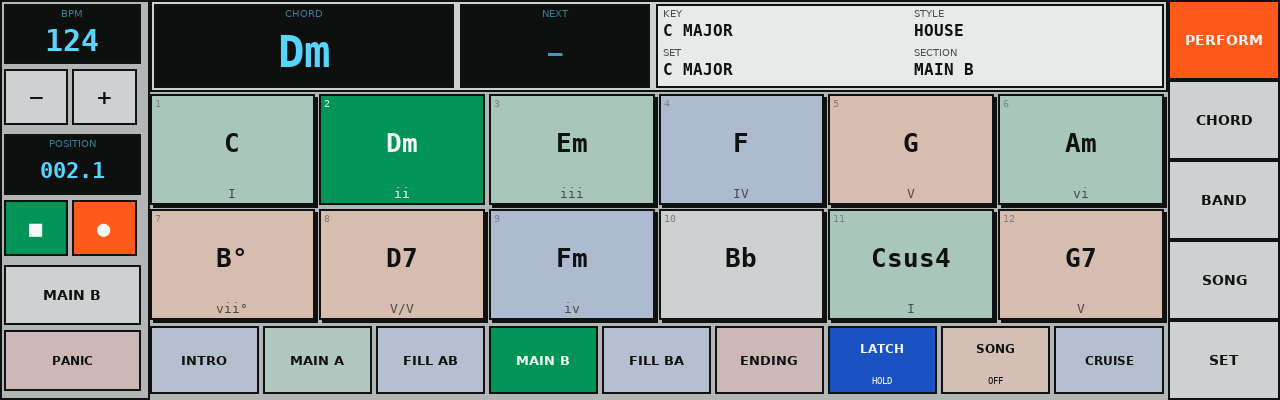
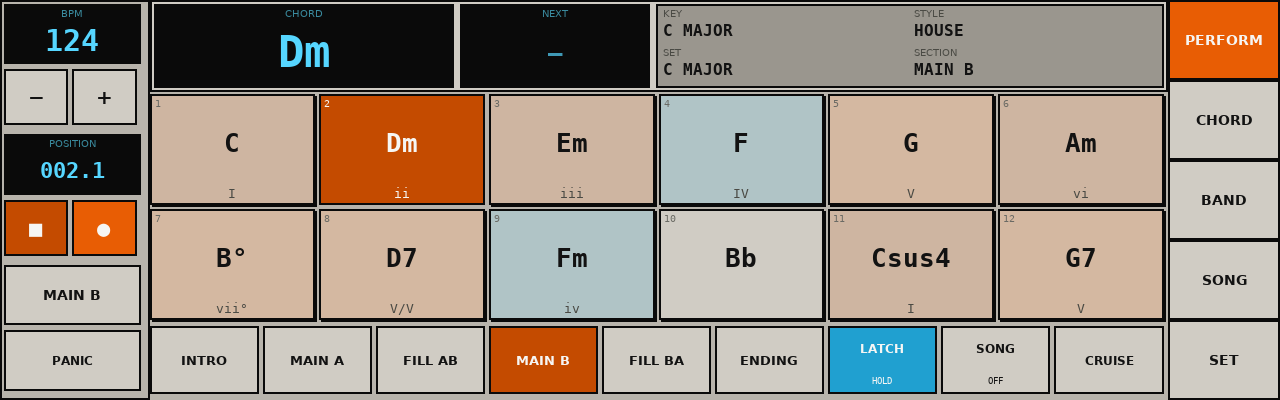
docs: document the Ranger Suite and the micro-rangers design system
The README still described a two-app world (RK-00pi plus "second app:
ChordRanger") and had no pictures, while the repo had grown seven apps, a
launcher, a shared kit and a whole new visual language.

README:
 * new top-level "The Ranger Suite" section — RangerDeck and the handover
   (closing the picture never stops the music), the seven apps with stage
   numbers and toggles, rangerkit as the vendored shared library, one
   PERFORM screenshot per app, `patchbox-app` replacing the old
   `patchbox-chordranger` instructions, and `config.rangers`.
 * "Design system: the micro-rangers industrial language" — why the scheme
   is light-industrial rather than dark, the token rules (RADIUS 0, 2 px
   black rules, LCD wells, HOT focus, no colour-alone press, ink_for,
   whole-colourway swaps), the sideways chrome on the bar, and the touch
   translator that a dead panel usually turns out to need.
 * build-toggle table gains RANGER_BOOT_APP and the per-app toggles.

Screenshots: regenerated every app's docs/img from the current theme (the
checked-in ChordRanger shots were still the old green/blue palette) and
added a hero shot to each app README.

RangerDeck bench fix: both deck PNGs were byte-identical because every
shot was drawn after the fleet had been fully mutated. Shoot as we go, so
the idle frame is actually idle.

Claude-Session: https://claude.ai/code/session_01QM5TE8oSpC9Sny1hPUUFBk

diff --git a/apps/rangerdeck/bench/render_panel.py b/apps/rangerdeck/bench/render_panel.py
@@ -68,20 +68,27 @@ def main(argv: list[str]) -> int:
                       connect=lambda name, timeout: _Idle())
     app = App(fleet, size=size)
 
-    shots = [("idle", ())]
+    # Shoot as we go: the fleet is mutated between states, so a shot taken
+    # after the fact would photograph the *last* state twice.
+    shot = 0
+
+    def shoot(label: str) -> None:
+        nonlocal shot
+        app._draw()
+        path = out / f"deck-{size[0]}x{size[1]}-{shot}-{label}.png"
+        pygame.image.save(app.surface, str(path))
+        print(f"wrote {path}")
+        shot += 1
+
+    shoot("idle")
     fleet.launch("midiranger")
     fleet.try_attach("midiranger")
     fleet.launch("grooveranger")
     fleet.try_attach("grooveranger")
     assert fleet.state("midiranger") == BACKGROUND
     app.message("MIDIRANGER RUNNING")
-    shots.append(("running", ("midiranger", "grooveranger")))
+    shoot("running")
 
-    for index, (label, _running) in enumerate(shots):
-        app._draw()
-        path = out / f"deck-{size[0]}x{size[1]}-{index}-{label}.png"
-        pygame.image.save(app.surface, str(path))
-        print(f"wrote {path}")
     pygame.display.quit()
     return 0
 

diff --git a/README.md b/README.md
@@ -448,6 +448,10 @@ Display mode is forced via `hdmi_cvt` / `hdmi_mode=87` and cmdline
 `video=HDMI-A-1:1280x400@60D` (`stage3/09-hdmi-ultrawide`). Override with
 `HDMI_WIDTH` / `HDMI_HEIGHT` / `HDMI_REFRESH`.
 
+This is also the hardware [the Ranger Suite](#the-ranger-suite) is drawn for.
+Same rig, different boot app: `./build-docker.sh -c config.rangers` boots
+RangerDeck instead of RK-00pi, and the whole family of apps ships on the card.
+
 ### Alternate stack: HyperPixel 4.0" DPI (Profile B)
 
 ```text
@@ -499,36 +503,13 @@ conflict-free TRS. On-device: `~/WAVESHARE-DPI.txt`,
 Parked / opt-in: Inky e-paper, RaspiAudio I2S — each conflicts with Pisound
 and/or the chosen UI.
 
-### Second app: ChordRanger
-
-[`apps/chordranger`](apps/chordranger/README.md) is a chord-first backing band
-for the same hardware — twelve chord pads (Chordcat), a six-section
-auto-accompaniment with fills that fire on the bar line (Yamaha QY), and a
-bass engine with its own voicing dial that is independent of the chord part
-(Orchid ORC-1). It lives in this repo rather than a submodule, and
-`stage3/13-install-chordranger` bakes it into `/opt/chordranger` with
-`chordranger.service`, `/etc/chordranger/config.toml` and a `chordranger-btn`
-bridge for The Button.
-
-ChordRanger and RK-00pi both render through SDL `kmsdrm` and there is one
-panel, so **exactly one runs at a time**. The image ships both; the unit is
-installed disabled by default and swapped on the device:
-
-```bash
-patchbox-chordranger status         # which app owns the panel
-sudo patchbox-chordranger enable    # ChordRanger, now and on next boot
-sudo patchbox-chordranger disable   # hand it back to RK-00pi
-```
-
-Build an image that boots ChordRanger instead with
-`ENABLE_CHORDRANGER_SERVICE=1` — the stage disables `rk00pi.service` for you.
-
 ### Audio / MIDI (this release)
 
 | Path | Status |
 |------|--------|
 | **Pisound** | **Primary** (¼″ + MIDI DIN, JACK) |
 | **RK-00pi** | **Primary UI** (ALSA MIDI backend, prefer Pisound) |
+| **Ranger Suite** | Shipped, one app at a time — see [The Ranger Suite](#the-ranger-suite) |
 | USB audio / USB MIDI | Optional secondary |
 | RaspiAudio I2S | Off |
 | Pimidi | Ordered / optional later if pins free |
@@ -553,8 +534,13 @@ on the unit with `patchbox-rk00pi-autohub` (read-only) and repair with
 | `ENABLE_RK00PI_COMPANION` | `1` | LAN companion routing UI + backup (`:8787`, token auth) |
 | `RK00PI_COMPANION_BIND` / `PORT` / `ADVERTISE` | `0.0.0.0` / `8787` / `1` | Companion listen + mDNS |
 | `RK00PI_HUB_PRESET` | follows `ENABLE_PIMIDI` | Starter hub: `pimidi-2x2`, else `rk008` (Pisound DIN) |
+| `RANGER_BOOT_APP` | `rk00pi` | Which kiosk app boots — any Ranger app, or `rangerdeck` for the launcher. Anything but `rk00pi` disables `rk00pi.service` |
+| `ENABLE_RANGERDECK` | `1` | Install [RangerDeck](apps/rangerdeck/README.md), the suite launcher |
 | `ENABLE_CHORDRANGER` | `1` | Install ChordRanger from `apps/chordranger` |
-| `ENABLE_CHORDRANGER_SERVICE` | `0` | Boot ChordRanger instead of RK-00pi |
+| `ENABLE_CHORDRANGER_SERVICE` | `0` | Boot ChordRanger instead of RK-00pi (implies `RANGER_BOOT_APP=chordranger`) |
+| `ENABLE_MIDIRANGER` / `GENRANGER` / `PHRASERANGER` | `1` | Install those [Ranger apps](#the-ranger-suite) |
+| `ENABLE_SCENERANGER` / `GROOVERANGER` / `SYNTHRANGER` | `1` | Install those Ranger apps |
+| `<APP>_WIDTH` / `<APP>_HEIGHT` | unset | Force one app's panel geometry (else it follows the display profile) |
 | `ENABLE_HDMI_ULTRAWIDE` | `1` | HDMI custom **1280×400** + USB touch (Profile A — primary) |
 | `HDMI_WIDTH` / `HEIGHT` / `REFRESH` | 1280 / 400 / 60 | HDMI panel geometry |
 | `ENABLE_HYPERPIXEL4` | `0` | Pimoroni HyperPixel 4 DPI (Profile B — parked) |
@@ -588,6 +574,185 @@ previously set in `stage1/01-sys-tweaks` (and always locked again at
 `export-image/05-finalise`) has been removed, and the Blokas/Raspberry Pi
 Foundation apt repositories now use HTTPS instead of HTTP (both endpoints
 verified to serve HTTPS; GPG-signature verification applied either way).
+
+## The Ranger Suite
+
+Seven touch-panel instruments and a launcher, all living in this repo under
+[`apps/`](apps) rather than in a submodule, all drawn for the same 1280×400
+bar, each baked into the image by its own `stage3` stage.
+
+[**RangerDeck**](apps/rangerdeck/README.md) is the front door: one tile per
+installed app, tap a tile and that app takes the panel.
+
+![RangerDeck, idle — one tile per Ranger app, POWER in the last cell](apps/rangerdeck/docs/img/deck-1280x400-0-idle.png)
+
+The tile's ✕ hands the panel back, and **closing the picture never stops the
+music** — a backgrounded app keeps its own process, clock, transport, arps,
+recording and playback running, and its tile says ▶ RUNNING until you press
+the tile's ■ to shut that rig down for real.
+
+![RangerDeck with MidiRanger and GrooveRanger running in the background](apps/rangerdeck/docs/img/deck-1280x400-1-running.png)
+
+| App | What it is | Stage | Toggle |
+|-----|------------|-------|--------|
+| [ChordRanger](apps/chordranger/README.md) | Chord pads + QY-style backing band | `13` | `ENABLE_CHORDRANGER` |
+| [MidiRanger](apps/midiranger/README.md) | MIDI routing matrix · arps · note FX | `15` | `ENABLE_MIDIRANGER` |
+| [GenRanger](apps/genranger/README.md) | Generative sequencer (Euclid/Markov/CA, Cruise) | `16` | `ENABLE_GENRANGER` |
+| [PhraseRanger](apps/phraseranger/README.md) | MIDI phrase looper + overdub + slicer | `17` | `ENABLE_PHRASERANGER` |
+| [SceneRanger](apps/sceneranger/README.md) | 12×8 clip + scene launcher | `18` | `ENABLE_SCENERANGER` |
+| [GrooveRanger](apps/grooveranger/README.md) | Sample groovebox + step sequencer + FX | `19` | `ENABLE_GROOVERANGER` |
+| [SynthRanger](apps/synthranger/README.md) | Multi-engine multitimbral poly synth | `20` | `ENABLE_SYNTHRANGER` |
+| [RangerDeck](apps/rangerdeck/README.md) | The launcher (tiles, handover, updates, POWER) | `21` | `ENABLE_RANGERDECK` |
+
+[`apps/rangerkit`](apps/rangerkit/docs/CONVENTIONS.md) is the shared library
+underneath them — theory, clock, routing, engine base, MIDI/pots/button I/O,
+the audio path, and the GUI theme and widgets. It is **vendored, not
+installed**: each app's stage rsyncs a frozen copy into `/opt/<app>/rangerkit`,
+so one app can be updated or rolled back without moving the ground under its
+siblings. `stage3/14-install-rangerkit` ships only what is genuinely global,
+the `patchbox-app` switcher below.
+
+### The panels
+
+Every screenshot here is generated from the real app, headless, by
+`python bench/render_panel.py docs/img` in each app directory — that is how
+the panels get reviewed without the hardware on the desk. Each app's README
+carries the rest of its screens.
+
+**ChordRanger** — twelve chord pads (Chordcat), a six-section
+auto-accompaniment with fills that fire on the bar line (Yamaha QY), and a
+bass engine with its own voicing dial independent of the chord part
+(Orchid ORC-1):
+
+![ChordRanger PERFORM](apps/chordranger/docs/img/panel-0-perform.png)
+
+**MidiRanger** — the suite's MIDI brain: multi-port matrix, four arps, scale
+quantizer and harmonizer, note FX, CC LFOs, eight morphable scenes:
+
+![MidiRanger PERFORM](apps/midiranger/docs/img/panel-1280x400-0-perform.png)
+
+**GenRanger** — up to six layers driven by Euclid, Markov, probability grids,
+cellular automata or constrained random, with Cruise slowly mutating the piece
+and lock regions holding what works:
+
+![GenRanger PERFORM](apps/genranger/docs/img/panel-1280x400-0-perform.png)
+
+**PhraseRanger** — eight-track phrase looper with pedal feel: quantized or free
+record, tape-style overdub decay, sixteen undos per track, reverse, stretch,
+and a slicer that maps a take onto sixteen pads in one gesture:
+
+![PhraseRanger PERFORM](apps/phraseranger/docs/img/panel-1280x400-0-perform.png)
+
+**SceneRanger** — a 12-track × 8-scene clip grid built for the bar: quantized
+launch, follow actions with probability, scene rows that launch as states:
+
+![SceneRanger PERFORM](apps/sceneranger/docs/img/panel-1280x400-0-perform.png)
+
+**GrooveRanger** — twelve velocity-layered pads with choke groups, a sixteen-step
+sequencer with probability, ratchets, trig conditions, micro-timing and
+parameter locks, eight patterns with queued switching and one-pass fills:
+
+![GrooveRanger PERFORM](apps/grooveranger/docs/img/panel-1280x400-0-perform.png)
+
+**SynthRanger** — four oscillator engines (virtual analog, 2-op FM, wavetable
+scan, phase distortion) across four parts, mod matrix fed by an on-screen XY
+pad, A ↔ B patch morph on one knob:
+
+![SynthRanger PERFORM](apps/synthranger/docs/img/panel-1280x400-0-perform.png)
+
+### Design system: the micro-rangers industrial language
+
+All eight panels above are drawn from one set of tokens in
+[`apps/rangerkit/gui/theme.py`](apps/rangerkit/gui/theme.py) and one set of
+components in [`gui/widgets.py`](apps/rangerkit/gui/widgets.py). The scheme is
+not a taste call — it is what survives the reference display, a 1280×400 HDMI
+bar with a heavy blue cast and a shallow black, on which three near-black
+surfaces all collapse into the same washed navy and a filled pad becomes
+indistinguishable from an empty one at arm's length. (ChordRanger predates
+rangerkit and keeps its own engine, but its `gui/theme.py` and `gui/widgets.py`
+are now re-export shims onto the shared ones, so it moves with the family.)
+
+ * **Separate surfaces by lightness against a light ground**, not by hue.
+   `BG` (panel face) / `BG_RAISED` (button rest) / `BG_SUNKEN` (empty well) /
+   `BG_PRESS` read apart even on a bad LCD.
+ * **Every rule is 2 px of true black, `RADIUS 0`.** A black line is the one
+   thing a bad panel still renders exactly. Shadows are a hard 2 px offset,
+   never a blur.
+ * **Numbers live in black LCD wells** (`bg_lcd`), cyan value type over a dim
+   cyan caption — the `lcd()` widget. Values are set in a monospace so digits
+   do not shift width as they count; headings, buttons and tabs are a
+   grotesque, always upper case.
+ * **Focus is HOT orange** (`#E85D04`), a 3 px ring drawn *outside* the black
+   rule. Semantics hold across every colourway: `ACCENT` is play/active,
+   `ACCENT2` is arm/record/queued, `ACCENT3` is the cool chip, `DANGER` is
+   stop/delete.
+ * **Never colour alone for press.** A pressed control drops geometry as well,
+   so the state is legible in sunlight and to a colour-blind eye. Concepts are
+   coloured *at rest* — PLAY is play-coloured whether or not it is playing —
+   so the finger aims by hue and the *fill* means latched.
+ * **Type ink is asked for, not assumed.** `ink_for(fill)` picks black or white
+   by luminance, which is what keeps a re-tuned hue or a flipped ground from
+   quietly producing unreadable labels.
+ * **Colourways are swapped whole, never patched**: `INDUSTRIAL` (default),
+   `NIGHT`, `MONO`, `DUSK`. Nothing in a GUI may capture a colour at import
+   time — `theme.apply()` rebinds the names in place, and a captured value
+   would keep the old palette forever.
+
+Geometry adapts rather than scales. On the bar, vertical space is the scarce
+resource, so the chrome turns sideways — transport rail down the left (150 px),
+tab rail down the right (112 px), and the content keeps all 400 px of height.
+Portrait and 800×480 panels get the ordinary top-transport / bottom-tabs stack
+instead. Three geometries are resolved by one `Layout` class (1280×400,
+800×480, 480×800), every drawn control is a registered hit target of at least
+44 px, and the GUI tests run all three.
+
+One consequence worth knowing before you debug a panel that paints perfectly
+and ignores every tap: capacitive USB-HID panels emit `FINGER*` events only,
+the kiosk units pin `SDL_TOUCH_MOUSE_EVENTS=0`, and every app therefore runs
+its events through a `rangerkit.gui.touch.TouchTranslator` configured *before*
+`display.init`. Without it nothing is clickable, including deck tiles.
+
+### One panel, one app
+
+Every Ranger app and RK-00pi render through SDL `kmsdrm`, and there is one
+display, so **exactly one owns the panel at a time**. The image ships them all;
+`patchbox-app` swaps them, standing every sibling down so the machine can never
+end up with two units enabled and a dark panel because they raced for the DRM
+master:
+
+```bash
+patchbox-app status                  # every installed kiosk app, and who has the panel
+sudo patchbox-app enable rangerdeck  # the launcher, now and on next boot
+sudo patchbox-app enable rk00pi      # back to the classic single app
+sudo patchbox-app disable            # stop the current app, restore the default
+patchbox-app logs midiranger         # tail that app's journal
+```
+
+(`patchbox-chordranger` still exists as a thin wrapper over it.)
+
+Pick the boot app at bake time with `RANGER_BOOT_APP` (`rk00pi` by default);
+setting it to anything else disables `rk00pi.service` for you.
+
+### Building a Ranger image
+
+[`config.rangers`](config.rangers) is the preset: Profile A hardware
+(Pi 5 + Pimidi + 1280×400 bar + USB touch) with RangerDeck at boot and all
+seven apps installed.
+
+```bash
+./build-docker.sh -c config.rangers
+```
+
+RK-00pi is still installed by that build but grows no tile — it does not speak
+the deck protocol yet, and stays one `sudo patchbox-app enable rk00pi` away.
+Two audio apps at once need JACK to share the DAC; on bare ALSA it is
+first-come-first-served and the second app runs with null audio.
+
+Once a unit is in the field, RangerDeck can update itself from a git channel
+file ([`apps/rangers-channel.json`](apps/rangers-channel.json)): when the
+remote tip moves, the deck header shows **UPDATE · TAP**, and Install runs
+`patchbox-ranger-update` (shallow clone + rsync into `/opt/*`, keeping venvs).
+See the [RangerDeck README](apps/rangerdeck/README.md#updates-git-channel).
 
 ## Docker Build
 

diff --git a/apps/rangerdeck/README.md b/apps/rangerdeck/README.md
@@ -13,6 +13,10 @@ keeps its engine — clock, transport, arps, recording, playback — running
 in its own process, and its pad shows ▶ RUNNING until you press the pad's
 ■ to shut the rig down for real. The last pad is **POWER**.
 
+![The deck at rest — one tile per installed app](docs/img/deck-1280x400-0-idle.png)
+
+![MidiRanger and GrooveRanger backgrounded, both tiles showing RUNNING](docs/img/deck-1280x400-1-running.png)
+
 ```
 python main.py                     # 1280x400 window, dev box
 python main.py --size 480x800     # portrait panel

diff --git a/apps/synthranger/README.md b/apps/synthranger/README.md
@@ -12,6 +12,8 @@ bank. Same Pi 5 + touch bar rig as its siblings.
 
 Inspirations: microKORG · Casio CZ · DX7 · Blofeld.
 
+![SynthRanger PERFORM — keyboard, four parts, XY mod matrix, patch morph](docs/img/panel-1280x400-0-perform.png)
+
 ## The floor, documented honestly
 
 Internal render is **48 kHz float32, 256-frame blocks** (the Pisound DAC

diff --git a/apps/genranger/README.md b/apps/genranger/README.md
@@ -18,6 +18,8 @@ generators; mutation changes *(params, seed)*, never notes. The headline
 test builds two engines from one project and asserts identical event
 streams over eight bars.
 
+![GenRanger PERFORM — Cruise, the chaos/density/complexity trio, six layers](docs/img/panel-1280x400-0-perform.png)
+
 ## Running it
 
 ```bash

diff --git a/apps/midiranger/README.md b/apps/midiranger/README.md
@@ -11,6 +11,8 @@ touch bar rig as RK-00pi and ChordRanger.
 Inspirations: Squarp Pyramid/Hermod · Oxi One · KeyStep Pro arps ·
 MIDI Solutions.
 
+![MidiRanger PERFORM — MIDI activity, scene recall, hot controls](docs/img/panel-1280x400-0-perform.png)
+
 ## Running it
 
 ```bash

diff --git a/apps/grooveranger/README.md b/apps/grooveranger/README.md
@@ -12,6 +12,8 @@ touch bar rig as its siblings.
 
 Inspirations: TR-909 · Elektron trig conditions · MPC pads · Volca Beats.
 
+![GrooveRanger PERFORM — twelve pads, pattern queue, kit and swing](docs/img/panel-1280x400-0-perform.png)
+
 ## Running it
 
 ```bash

diff --git a/apps/sceneranger/README.md b/apps/sceneranger/README.md
@@ -11,6 +11,8 @@ rig as its siblings.
 
 Inspirations: Ableton Live Session · Push · Bitwig clips · Launchpad.
 
+![SceneRanger PERFORM — the 12-track x 8-scene clip grid](docs/img/panel-1280x400-0-perform.png)
+
 ## Running it
 
 ```bash

diff --git a/apps/phraseranger/README.md b/apps/phraseranger/README.md
@@ -13,6 +13,8 @@ its siblings.
 Inspirations: RC-series loopers · OP-1 tape · Ableton looper · Electribe
 phrases.
 
+![PhraseRanger PERFORM — eight loop tracks](docs/img/panel-1280x400-0-perform.png)
+
 ## Running it
 
 ```bash
